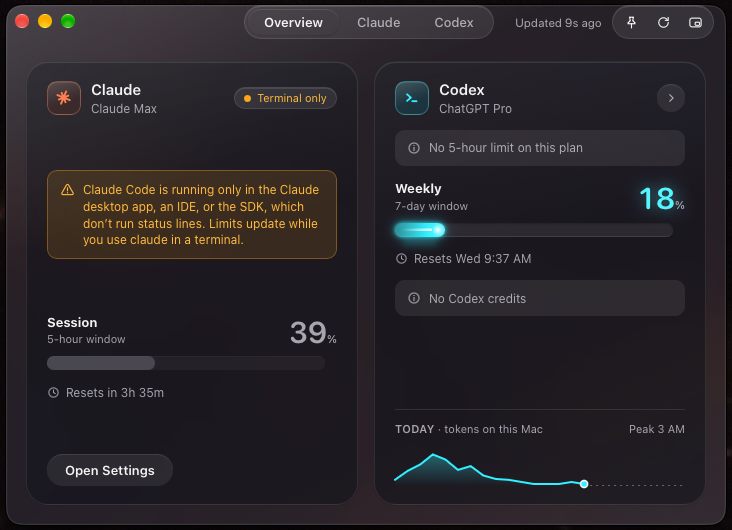
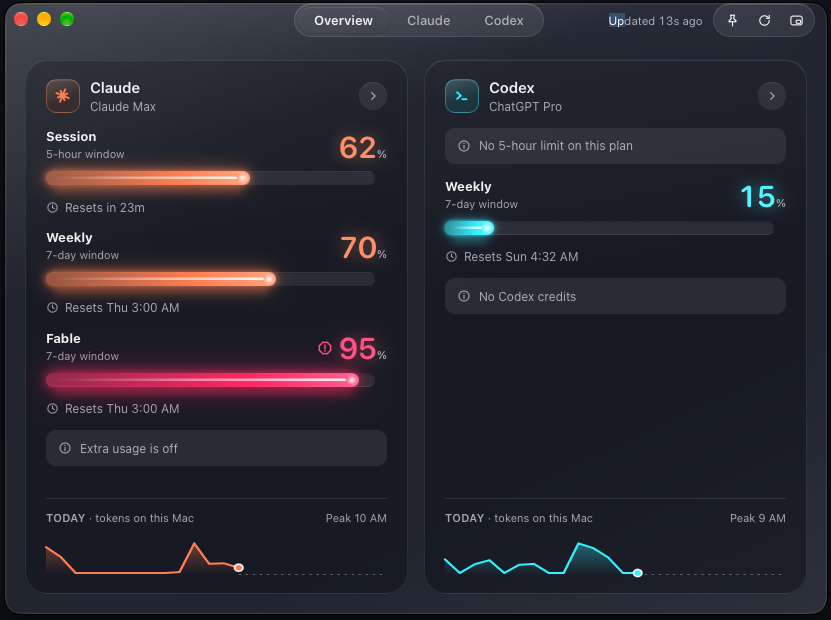
docs(readme): refresh dashboard and widget screenshots for Fable usage
Replace the dashboard and floating-widget screenshots with the supplied images of the current app. Update both image descriptions to include Claude session, weekly, and Fable usage alongside Codex weekly usage. Preserve the existing image paths and menu-bar screenshot.

Validation: both PNG files match the supplied originals, every local README image link resolves, and git diff --check passes.

diff --git a/README.md b/README.md
@@ -2,11 +2,11 @@
 
 Headroom is a macOS menu-bar app that shows Claude and Codex session limits, weekly limits, Claude's separate Fable allowance when reported, and recent token activity. It provides a compact popover, a full dashboard, an optional floating widget, and threshold/reset notifications.
 
-![Headroom dashboard showing Claude and Codex limits](docs/screenshots/dashboard.png)
+![Headroom dashboard showing Claude session, weekly, and Fable usage alongside Codex weekly usage](docs/screenshots/dashboard.png)
 
 | Menu bar | Floating widget |
 | --- | --- |
-| ![Stacked Claude and Codex weekly bars in the menu bar](docs/screenshots/menu-bar.png) | ![Floating widget with Claude 5-hour and weekly, and Codex weekly limits](docs/screenshots/widget.png) |
+| ![Stacked Claude and Codex weekly bars in the menu bar](docs/screenshots/menu-bar.png) | ![Floating widget showing Claude session, weekly, and Fable usage alongside Codex weekly usage](docs/screenshots/widget.png) |
 
 ## Download
 
